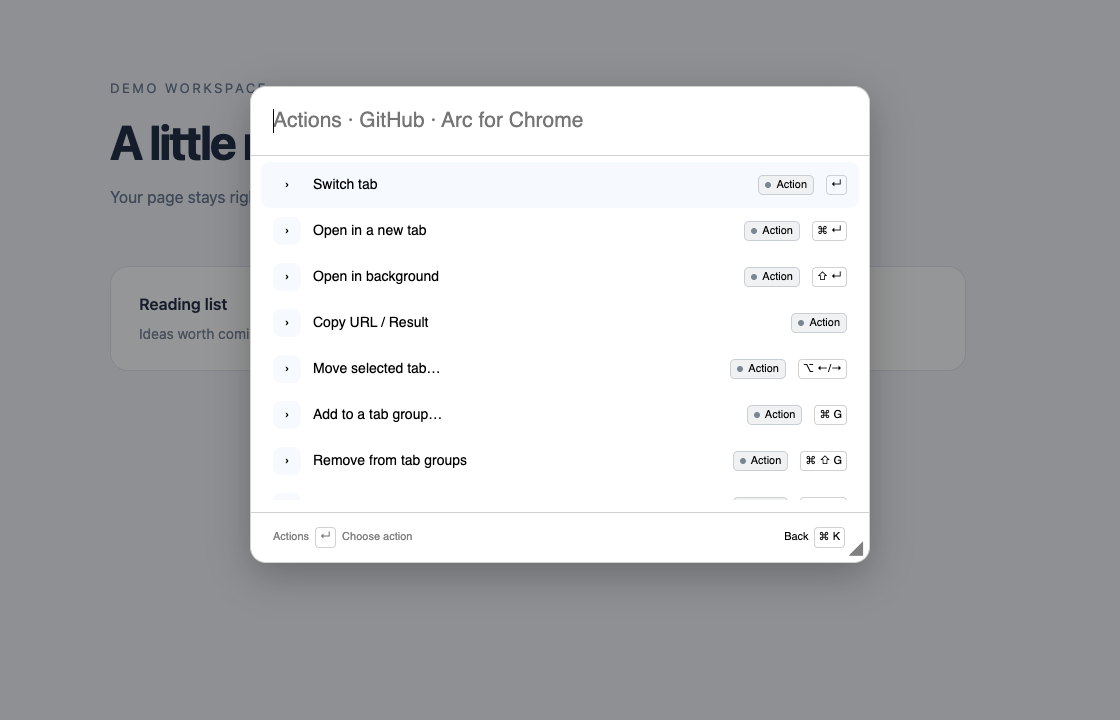
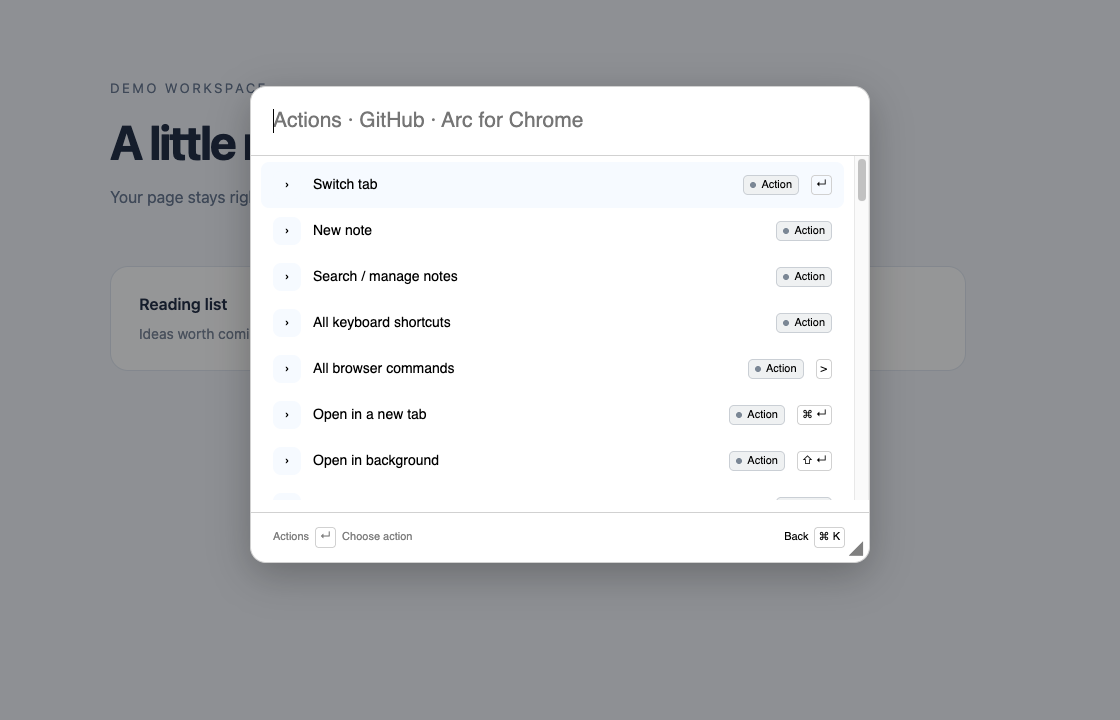
docs: illustrate notes and complete shortcut discovery
Document note save/cancel, local limits/privacy and actual global shortcut lookup in both languages. Add fictional editor/directory captures and manual checks; verified links and media metadata.

diff --git a/scripts/build-readme-demo.py b/scripts/build-readme-demo.py
@@ -20,5 +20,5 @@ if (source / 'arc-spotlight-activity.png').exists():
     shutil.copyfile(source / 'arc-spotlight-activity.png', output / 'spotlight-activity.png')
 print(f'Wrote demo and light/dark captures to {output}')
 
-for name in ('selection', 'groups', 'bookmarks', 'actions', 'providers', 'calculator', 'quicklinks'):
+for name in ('selection', 'groups', 'bookmarks', 'actions', 'providers', 'calculator', 'quicklinks', 'notes', 'note-editor', 'shortcuts'):
     shutil.copyfile(source / f'arc-spotlight-{name}.png', output / f'spotlight-{name}.png')

diff --git a/README.md b/README.md
@@ -70,7 +70,7 @@ Chrome may keep an older key assignment or reject a conflicting binding. Open `c
 
 In Search, Enter activates an existing tab or opens a new one. In **Edit current URL**, Enter replaces the source page; submitting its unchanged URL reloads it. Navigation modifiers apply to URL/search results; commands and session restoration keep their explicit actions.
 
-**Prefixes replace mode controls:** `>` commands · `@` arrange tabs · `<` recently closed · `?` recover AI prompts · `$` quicklinks. For example, `> settings` finds extension/browser settings commands and `> edit current URL` enters address editing without a global shortcut. Backspace on an empty scoped input returns to Search.
+**Prefixes replace mode controls:** `>` commands · `@` arrange tabs · `<` recently closed · `?` recover AI prompts · `$` quicklinks · `:` notes. For example, `> settings` finds extension/browser settings commands and `> edit current URL` enters address editing without a global shortcut. Backspace on an empty scoped input returns to Search.
 
 These action shortcuts work while Spotlight is open. For vertical tabs, use **Alt/Option+↑/↓**; add Shift for start/end. **`#Work`** chooses a group; **`*Work`** chooses a bookmark folder.
 
@@ -99,6 +99,18 @@ When no local page matches, Search offers **Google**, **ChatGPT** and **Google A
 Select a web page → **Actions → Save as quicklink…** → enter a name → Enter. Find it by name or URL in ordinary Search, or type **`$`** / **`$work`** to browse/filter quicklinks. **Manage quicklinks** is also a searchable command. Use Actions on a quicklink to rename or remove it. Saving the current page is available through **Save selected page as quicklink** in Commands.
 
 Quicklinks are local to this Chrome profile, separate from native bookmarks: at most **100**, names **1–80 characters**, HTTP(S) addresses without embedded credentials. They persist until explicitly removed; clearing the action journal does not delete them. They are not automatically synced.
+
+### Notes and the full shortcut map
+
+Open **⌘/Ctrl+K → New note**. Enter a title, Tab to the multiline body, and **⌘/Ctrl+Enter** or **Save note** to save locally. Plain Enter in the body adds a line. Find notes by title or text in Search, **`:query`**, or **Actions → Search / manage notes**. On a note, Actions offers edit, copy text and delete. Esc cancels unsaved edits; reopening a saved note restores its saved text. There is no autosave. Limits: **200 notes**, **80-character titles**, **20,000-character bodies**. Notes are local to this profile, separate from journal retention and without automatic sync. Concurrent edits are revision-checked: a stale editor cannot silently overwrite a newer note; a save failure leaves its text intact. Note text is never included in the action journal.
+
+The same **⌘/Ctrl+K** menu now includes **every extension shortcut and prefix**, including marking, both tab axes/edges, groups/bookmarks, completion/focus, overlay positioning/resizing and note-save. Context actions execute normally; rows labelled **Shortcut** are a reference, explain the required scope, and **Enter copies their instructions**. **All keyboard shortcuts** opens the full searchable directory. Global Search/Edit rows show their actual Chrome assignments, including changed or unassigned bindings; an unavailable lookup says to check Chrome shortcuts rather than guessing. Notes and help remain available when Search has no matching result.
+
+| Multiline notes | All keyboard shortcuts |
+| --- | --- |
+| ![Local note editor with explicit save shortcut](docs/assets/spotlight-note-editor.png) | ![Searchable shortcut directory with scopes and actual bindings](docs/assets/spotlight-shortcuts.png) |
+
+[Notes list preview](docs/assets/spotlight-notes.png). All media use fictional notes and shortcut assignments.
 
 ### Calculate without leaving the page
 
@@ -256,7 +268,7 @@ Suggestions are processed locally. There is **no telemetry, backend, online auto
 | `bookmarks` | Read suggestions and explicitly save/remove selected pages in a chosen folder |
 | `search` | Use Chrome’s chosen default provider |
 | `sessions` | List and restore recently closed tabs |
-| `storage` | Site templates/aliases, local action history, named quicklinks and temporary AI prompt recovery |
+| `storage` | Site templates/aliases, local action history, named quicklinks/notes and temporary AI prompt recovery |
 | `alarms` | Automatically expire action-history entries |
 | `tabGroups` | Read and update source-window group names, colors and state |
 | `clipboardWrite` | Copy URLs or calculator results on request; never read the clipboard |

diff --git a/docs/TESTING.md b/docs/TESTING.md
@@ -135,3 +135,10 @@ Installed smoke checklist: save two marked tabs in a chosen nested folder, repea
 Unit coverage includes arithmetic precedence/unary/powers/invalid inputs and finite formatting, quicklink create/search/rename/remove, unsafe URLs/ids/names/cap and unrelated storage preservation, source-window validation, recent-action listing without replay and Chrome-local icon fetching/caching/failure/response limits. All modules are syntax-checked. The disposable Chrome harness exercises contextual actions for the frozen selected/marked tabs, keyboard return/empty action filters, original query preservation when changing/cancelling providers, leading alias removal, quicklink name/id save/rename/remove, clipboard-stubbed calculator copy through primary/contextual actions, favicon decoration and existing keyboard/geometry/group/bookmark scenarios. Captures use fictional tabs and mocked APIs, not personal browser data.
 
 Installed smoke checklist: reload v0.21 and review/re-enable the favicon permission if Chrome requests it. On a normal page and protected-page popup, verify real cached icons (including missing/offline icons), default/light/dark/forced colors and narrow/resized views. Use Cmd/Ctrl+K and footer button via mouse/Tab, Escape return, multi-tab group/bookmark actions and repeated direct moves. Save a quicklink, reload/restart, search/rename/remove it and confirm native bookmarks are independent; clearing the journal must retain it. Choose every builtin/custom/detected provider and cancel a provider filter without losing the query; check AI recovery on navigation failure. Verify actual clipboard writes for URL/calculation (the automated test does not write the OS clipboard). Confirm initial command/recent sections follow journal settings, entries only open the journal and no action is replayed. No remote AI login/prefill or native favicon-service integration is claimed from mocked tests.
+
+
+## Notes and shortcut catalogue v0.22
+
+Unit tests cover multiline persistence/body search, edit/delete and unrelated-key preservation, unsafe ids/empty/oversized/capped records, stale update/delete conflicts, actual/unassigned/failed global shortcut lookups, inventory coverage and note-content exclusion from the action journal with text opt-in enabled. Browser checks cover actions with no result, configured global key display, creation/multiline Enter/explicit save, copy via clipboard stub, edit/help/editor return, failed-save text retention/retry, reopen/body search, delete and copying an informational shortcut. Existing tab placement, geometry, group/bookmark, provider and input-isolation regressions remain in the same run.
+
+Installed smoke: reload v0.22; no new permission. Confirm current global bindings in both ordinary overlay and protected popup. Search the action menu for notes, resize/move/reset, mark, groups/bookmarks, Tab and prefixes; check that reference rows explain scope. Create/edit a multiline note via keyboard and buttons, close/reopen and restart Chrome to verify explicit saved persistence. Cancel edits and check the saved version remains. Open the same note in two windows, save one, and ensure stale overwrite/delete is rejected while the second editor text stays intact. Check failed quota save, plain text such as HTML tags, long notes, narrow/resized views, font/theme/forced colors and actual clipboard writing. Clearing activity must preserve notes and no note content may appear in the journal. Browser-service APIs and clipboard are stubbed in automated UI checks.

diff --git a/docs/ARCHITECTURE.md b/docs/ARCHITECTURE.md
@@ -106,3 +106,12 @@ quicklinks.js stores independent quicklink:UUID records in storage.local, separa
 favicons.js reads only Chrome's extension-origin _favicon endpoint with the favicon permission. It strips paths/queries to the origin, validates PNG responses and bounds request count/image bytes/time/cache entries. The worker returns data PNGs, so web-accessible extension resources and host grants are unnecessary. UI icons load after rendering, keep the selection click control and degrade to generic icons. Worker/UI caches are memory-only and bounded; no external favicon provider is contacted. See Chrome's official favicon documentation: https://developer.chrome.com/docs/extensions/how-to/ui/favicons.
 
 The interactions were informed by Vicinae's publicly documented launcher patterns. No Vicinae source, screenshots, icons or other assets are distributed here; the project retains its original MIT implementation.
+
+
+## Notes and shared shortcut catalogue (0.22)
+
+launcher-catalog.js owns the action definitions and complete shortcut-reference data. launcherContext reads actual commands.getAll global bindings for both injection and protected-page contexts; missing/unavailable assignments are explicit. This data is serialized in mount context; mountPalette retains no imported closure dependency. Applicable contextual actions are listed first, with unmatched reference rows appended; All keyboard shortcuts offers the entire scoped directory. Reference rows copy instructions rather than executing out-of-context effects. Global notes/help remain available without a result. Empty results still loading for a nonempty scoped query retain the previous wait-for-suggestions behavior rather than choosing a new global action accidentally.
+
+notes.js owns note:UUID records {title,body,revision,updatedAt}, input validation, 200-record cap, body/title matching and a serialized write queue. Existing records require the expected revision on save/delete; stale editors cannot overwrite or delete new data. get is read-only and unlogged, while save/remove journal labels contain operation only. Content is excluded even when ordinary query journaling is opted in. Storage keys are independent of quicklinks and activity retention. Empty searches avoid normalizing every note body.
+
+The palette uses a plain multiline textarea and title field in note-editor scope, with explicit Save button/Cmd-or-Ctrl+Enter. Enter in body is a newline; note editing bypasses generic result navigation and tab-mutation hotkeys. Save errors preserve text; Escape cancels unsaved edits. Contextual help preserves the editor object/body while temporarily scoped elsewhere. Result snippets use textContent; body text is never treated as a URL, HTML or a favicon request. No autosave, remote service, encryption or sync is provided. No additional browser permission.

diff --git a/docs/WORK_LOG.md b/docs/WORK_LOG.md
@@ -234,3 +234,5 @@ Each commit body should state its rationale and the checks actually run. Publish
 123. Added local notes service with independent note:UUID records, title/body bounds (80/20,000 characters), 200-note cap, multiline body search, serialized writes and revision checks preventing stale overwrite/deletion. Reading a note is excluded from the action journal; saves/removals log only operation metadata even with journal text opt-in. Added a shared data-only launcher action/shortcut catalogue and actual commands.getAll binding lookup for global Search/Edit, used by injected/protected-page contexts. Inventory covers navigation, marking, groups, bookmarks, both tab axes/edges, URL/site completion, focus, Escape/Backspace, Spotlight move/resize/reset, note-save and all prefixes. New modules failed before implementation; targeted/unit suite now passes 115 tests. UI/editor integration and browser checks follow. No push.
 
 124. Integrated notes into Cmd/Ctrl+K (new/search/edit/copy/delete/save), Commands, ordinary title/body search and : prefix. Added a plain multiline editor with explicit Save/Cmd-or-Ctrl+Enter, native newlines, title/body/save/actions/resize focus cycle and cancellation semantics. Failed saves keep text; help/menu round trips retain editor state. Cmd/Ctrl+K now appends the full scoped shortcut reference with searchable descriptions/aliases and copy-on-Enter rows, plus an All keyboard shortcuts view; actual global assignments are displayed. Global notes/help work with no Search result, while an unresolved nonempty result scope cannot accidentally choose a new global action. Fixed Enter on editor Actions opening the menu rather than saving. Validation: 115 unit/syntax checks and complete disposable Chrome regression passed, including notes create/multiline/edit/copy/failure/retry/reopen/body-search/delete, configured global keys and informational shortcut copying. OS clipboard/browser APIs remain stubbed. No push.
+
+125. Updated English/Russian README and user/keyboard/architecture/test guides for notes, explicit save/cancel, local limits, revision conflicts, journal privacy, complete shortcut discovery and scope-aware informational rows. Added fictional notes-list/editor/shortcut-directory captures and regenerated existing demo media. Visually checked editor and directory; documentation local links, image EXIF/author/comment metadata and diff whitespace passed. Updated the reproducible capture builder. No personal notes, real shortcut settings or OS clipboard content are included; no push.

diff --git a/docs/KEYBOARD_REMAPPING.md b/docs/KEYBOARD_REMAPPING.md
@@ -45,3 +45,10 @@ Prefixes from Search: `>` commands, `@` arrange tabs, `<` recently closed. The r
 Inside Spotlight, Cmd/Ctrl+K toggles the Actions scope for the selected result (and current marks). Filter action titles, arrows choose, Enter runs; Escape returns to the original query/selection. Direct G/D group/bookmark chords use the same action definitions and remain available. Tab/Shift+Tab cycle input → Actions → resize; Shift+Tab from input still reaches resize directly. The footer uses platform modifier keycaps and the selected primary action.
 
 $ opens named quicklinks; $work filters them. Manage quicklinks and Save selected page as quicklink are searchable commands. Actions offers save/rename/remove as applicable. Name entry uses Enter save and Esc cancel. Type 1250 * 0.18 and Enter to copy 225 without dismissing Spotlight. For query redirection, Actions → Search this query with… → filter provider name → Enter; Escape preserves the previous query. Global Chrome shortcut assignment remains unchanged.
+
+
+## Notes and complete discovery v0.22
+
+Cmd/Ctrl+K now lists notes operations and the complete extension shortcut reference. All keyboard shortcuts enters its searchable directory; normal action rows run, Shortcut-labelled rows copy instructions and describe their required scope. Search includes English/Russian aliases. Actual global Search/Edit bindings come from commands.getAll, including unassigned/custom combinations, and are not claimed to be the defaults.
+
+:query enters note title/body search. New note is an action/command. Inside the editor only, Cmd/Ctrl+Enter saves; Enter in body inserts a line, Enter in title moves to body, Escape cancels unsaved edits. Tab/Shift+Tab cycle title, body, Save, Actions and resize; Enter on Actions opens the menu, never saves the note. Escape from contextual help restores the editor. Ordinary URL modifiers and tab mutations do not run while typing in the note editor. Standard native editing keys remain available. No new global shortcut or permission was added.

diff --git a/docs/assets/README.md b/docs/assets/README.md
@@ -17,3 +17,5 @@ The activity-history preview uses two fictional action records. The current GIF 
 The selection, group picker and bookmark-folder picker PNGs show the current multi-tab workflow, captured with the same fictional fixtures. Their browser API responses are stubbed; the displayed UI and keyboard handling are the extension’s real code.
 
 Version 0.21 adds contextual Actions, provider redirection, quicklinks and calculator captures. These are real UI states with fictional data and stubbed browser services; no remote prompt is submitted and automated clipboard tests use a stub. The provider example includes builtins and detected site scopes.
+
+Version 0.22 adds fictional notes-list, multiline-editor and full-shortcut-directory captures. Global shortcut assignments in screenshots are test fixtures; the installed extension reads its actual Chrome assignments. No personal notes or clipboard are used.
